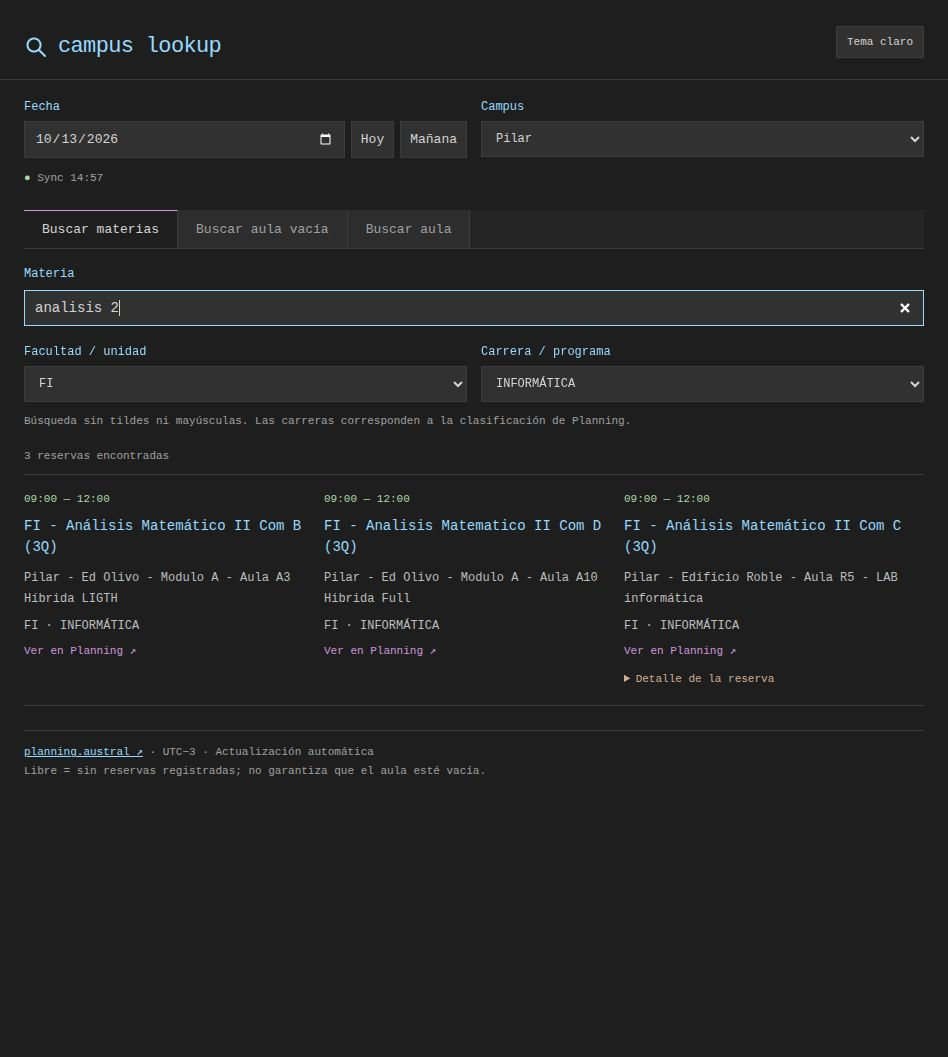
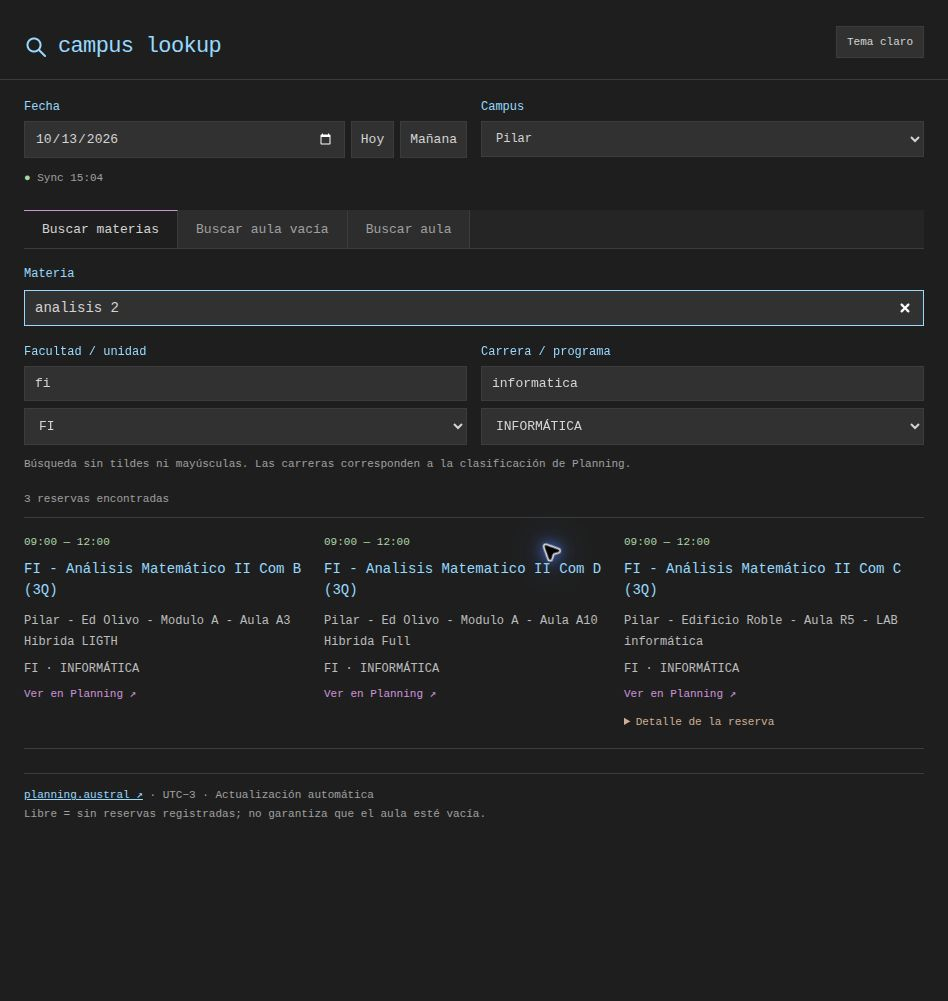
Simplify setup and README, add local hostname and searchable academic filters

diff --git a/index.html b/index.html
@@ -74,6 +74,8 @@ input::placeholder { color: #949494; }
 .card { background: transparent; border-bottom: 1px solid var(--line); padding: 16px 18px 16px 0; overflow-wrap: anywhere; }
 .card h3 { margin: 10px 0; font-size: 14px; font-weight: 400; color: var(--blue); line-height: 1.5; }
 .subject-filters { margin: 10px 0; }
+.academic-filter { flex: 1; min-width: 180px; }
+.academic-filter input { margin: 7px 0; }
 .academic-label { color: var(--purple); font-size: 11px; line-height: 1.6; margin: 6px 0; }
 .schedule-booking { border-top: 1px solid var(--line); padding-top: 12px; margin-top: 12px; }
 .schedule-booking h4 { font-size: 12px; font-weight: 400; line-height: 1.6; margin: 6px 0; color: var(--text); }
@@ -96,7 +98,7 @@ input:focus, select:focus, button:focus-visible { outline: 1px solid var(--blue)
 <header><h1><svg class="logo" viewBox="0 0 24 24" fill="none" stroke="currentColor" stroke-width="2" stroke-linecap="round" aria-hidden="true"><circle cx="10" cy="10" r="6.5"/><path d="m15 15 6 6"/></svg>campus lookup</h1><button id="theme" type="button">Tema claro</button></header><main>
 <section class="panel"><div class="row"><div class="date-field"><label for="date">Fecha</label><div class="date-controls"><input id="date" type="date" required><button id="today" type="button">Hoy</button><button id="tomorrow" type="button">Mañana</button></div></div><label>Campus<select id="campus"><option>Pilar</option><option value="Bs. As.">Buenos Aires</option><option>Rosario</option><option value="">Todos</option></select></label></div><div id="status" role="status" aria-live="polite">Conectando con Planning…</div></section>
 <div class="tabs" role="tablist" aria-label="Tipo de búsqueda"><button id="subjects" role="tab" aria-controls="subjectForm" aria-selected="true">Buscar materias</button><button id="rooms" role="tab" aria-controls="roomForm" aria-selected="false" tabindex="-1">Buscar aula vacía</button><button id="roomSchedule" role="tab" aria-controls="scheduleForm" aria-selected="false" tabindex="-1">Buscar aula</button></div>
-<section class="panel"><div id="subjectForm" role="tabpanel" aria-labelledby="subjects"><label for="q">Materia</label><input id="q" type="search" placeholder="analisis 2, álgebra, física…" autocomplete="off"><div class="row subject-filters"><label for="faculty">Facultad / unidad<select id="faculty"><option value="">Todas</option></select></label><label for="career">Carrera / programa<select id="career"><option value="">Todas</option></select></label></div><div class="hint">Búsqueda sin tildes ni mayúsculas. Las carreras corresponden a la clasificación de Planning.</div></div><div id="roomForm" role="tabpanel" aria-labelledby="rooms" hidden><div class="row"><div class="time-field"><label for="from">Desde</label><div class="time-controls"><input id="from" type="time" value="12:00" required><button id="now" type="button">Ahora</button></div></div><div class="time-field"><label for="to">Hasta</label><div class="time-controls"><input id="to" type="time" value="14:00" required></div><div class="duration"><label for="hours">+</label><input id="hours" type="text" inputmode="decimal" value="2" aria-label="Duración en horas" autocomplete="off"><span>horas desde el inicio</span></div></div><label>Edificio<select id="building"><option value="default">Olivo A/B · Roble · Ceibo</option><option value="all">Todas las aulas</option></select></label></div><p id="intervalHint" class="hint" role="status"></p></div></section>
+<section class="panel"><div id="subjectForm" role="tabpanel" aria-labelledby="subjects"><label for="q">Materia</label><input id="q" type="search" placeholder="analisis 2, álgebra, física…" autocomplete="off"><div class="row subject-filters"><div class="academic-filter"><label for="faculty">Facultad / unidad</label><input id="facultySearch" type="search" aria-label="Buscar facultad o unidad" placeholder="Buscar facultad…" autocomplete="off"><select id="faculty"><option value="">Todas</option></select></div><div class="academic-filter"><label for="career">Carrera / programa</label><input id="careerSearch" type="search" aria-label="Buscar carrera o programa" placeholder="Buscar carrera…" autocomplete="off"><select id="career"><option value="">Todas</option></select></div></div><div class="hint">Búsqueda sin tildes ni mayúsculas. Las carreras corresponden a la clasificación de Planning.</div></div><div id="roomForm" role="tabpanel" aria-labelledby="rooms" hidden><div class="row"><div class="time-field"><label for="from">Desde</label><div class="time-controls"><input id="from" type="time" value="12:00" required><button id="now" type="button">Ahora</button></div></div><div class="time-field"><label for="to">Hasta</label><div class="time-controls"><input id="to" type="time" value="14:00" required></div><div class="duration"><label for="hours">+</label><input id="hours" type="text" inputmode="decimal" value="2" aria-label="Duración en horas" autocomplete="off"><span>horas desde el inicio</span></div></div><label>Edificio<select id="building"><option value="default">Olivo A/B · Roble · Ceibo</option><option value="all">Todas las aulas</option></select></label></div><p id="intervalHint" class="hint" role="status"></p></div></section>
 <section id="scheduleForm" class="panel" role="tabpanel" aria-labelledby="roomSchedule" hidden><label for="roomQuery">Aula</label><input id="roomQuery" type="search" placeholder="R2, C8.1, B7, Ceibo…" autocomplete="off"><p class="hint">Reservas del aula para la fecha seleccionada.</p></section>
 <h2 id="count">Cargando…</h2><div id="results" aria-live="polite"></div><footer><a href="https://planning-campus.austral.edu.ar:44443/" target="_blank" rel="noopener">planning.austral ↗</a> · UTC−3 · Actualización automática<br>Libre = sin reservas registradas; no garantiza que el aula esté vacía.</footer></main>
 <script>
@@ -281,7 +283,10 @@ function resetOptions(select, values, emptyLabel, label = value => value) {
   const previous = select.value;
   select.replaceChildren();
   const all = document.createElement('option'); all.value = ''; all.textContent = emptyLabel; select.append(all);
+  const query = norm($(select.id + 'Search')?.value || '');
   for (const value of values) {
+    const actual = value || '__unclassified__';
+    if (query && actual !== previous && !norm(value ? label(value) : 'Sin clasificación').includes(query)) continue;
     const option = document.createElement('option'); option.value = value || '__unclassified__'; option.textContent = value ? label(value) : 'Sin clasificación'; select.append(option);
   }
   select.value = [...select.children].some(o => o.value === previous) ? previous : '';
@@ -500,6 +505,7 @@ $('to').addEventListener('input', () => {
 });
 $('faculty').addEventListener('change', () => { $('career').value = ''; updateAcademicFilters(); render(); });
 $('career').addEventListener('change', render);
+for (const id of ['facultySearch', 'careerSearch']) $(id).addEventListener('input', updateAcademicFilters);
 for (const id of ['q', 'roomQuery', 'building']) $(id).addEventListener('input', render);
 const tabs = ['subjects', 'rooms', 'roomSchedule'];
 function selectTab(tab) {

diff --git a/install_bookmark.py b/install_bookmark.py
@@ -78,7 +78,7 @@ WantedBy=sockets.target
         run('is-active', '--quiet', f'{NAME}.socket')
     except subprocess.CalledProcessError:
         parser.exit(1, f'No se pudo activar el favorito; quizás el puerto {args.port} está ocupado. Probá --port con otro número.\n')
-    print(f'Listo. Guardá este enlace en la barra de favoritos: http://127.0.0.1:{args.port}/')
+    print(f'Listo. Guardá este enlace en la barra de favoritos: http://campus-lookup.localhost:{args.port}/')
     print('Al abrirlo inicia Python en esa misma pestaña. Al cerrar la última pestaña, Python termina.')
     print('Si movés esta carpeta, volvé a ejecutar este setup.')
 

diff --git a/server.py b/server.py
@@ -69,7 +69,7 @@ class Handler(BaseHTTPRequestHandler):
 
     def do_GET(self):
         url = urlsplit(self.path)
-        if self.headers.get('Host') != f'127.0.0.1:{self.server.server_port}':
+        if self.headers.get('Host') not in {f'{host}:{self.server.server_port}' for host in ('127.0.0.1', 'localhost', 'campus-lookup.localhost')}:
             self.reply(403, b'Host no permitido', 'text/plain')
             return
         if url.path in ('/', '/index.html'):

diff --git a/setup.py b/setup.py
@@ -1,0 +1,11 @@
+#!/usr/bin/env python3
+"""Instala campus lookup y abre la app (Linux con systemd, sin sudo)."""
+import subprocess
+import sys
+from pathlib import Path
+import webbrowser
+
+if __name__ == '__main__':
+    root = Path(__file__).resolve().parent
+    subprocess.run([sys.executable, str(root / 'install_bookmark.py')], check=True)
+    webbrowser.open('http://campus-lookup.localhost:18787/')

diff --git a/README.md b/README.md
@@ -1,104 +1,47 @@
 # campus lookup
 
-Buscador de materias y aulas libres de Austral. Sin login ni paquetes externos. Necesitás **Python 3.10+** e internet.
+Buscá materias, horarios por aula y aulas vacías de Austral. Sin login ni dependencias externas. Requiere **Python 3.10+**, internet y un navegador moderno.
 
-## Abrir
+## Instalación habitual · Linux con systemd
+
+Cloná el repo donde quieras y ejecutá el setup **sin sudo**:
+
+```bash
+git clone https://github.com/Vontk/planning-austral.git
+cd planning-austral
+python3 setup.py
+```
+
+El setup instala el inicio automático y abre la app. Después entrá a **http://campus-lookup.localhost:18787/** desde tu navegador cuando quieras. Guardalo con **Ctrl+D** en la barra de favoritos como **campus lookup**.
+
+Al abrir el enlace, Python arranca automáticamente. Al cerrar la última pestaña, termina en unos 6–9 segundos. Funciona al volver a iniciar sesión; la app solo es accesible desde tu computadora.
+
+Conservá la carpeta del proyecto. Si la movés, ejecutá `python3 setup.py` de nuevo desde su nueva ubicación. Para actualizar: `git pull` y cerrá/reabrí las pestañas de la app.
+
+Si tu navegador no reconoce el nombre local, usá **http://127.0.0.1:18787/**. Si el puerto está ocupado, ejecutá `python3 install_bookmark.py --port 18788` y abrí el enlace que indique.
+
+## Windows, macOS o Linux sin systemd
+
+Descargá o cloná el repo y, desde su carpeta, ejecutá:
 
 ```bash
 python3 server.py
 ```
 
-Abre tu navegador predeterminado en **http://127.0.0.1:18787/**. Si la integración de favoritos ya está activa, reutiliza ese servidor. Al cerrar la última pestaña de la app, Python termina unos segundos después. Recargar no lo cierra. También podés terminarlo con `Ctrl+C`.
+En Windows podés usar `py -3 server.py`. Se abre el navegador predeterminado y Python termina al cerrar la última pestaña. En estos sistemas hay que ejecutar el comando cada vez que quieras abrir la app; el setup automático requiere Linux con systemd.
 
-## Abrir desde la barra de favoritos
+## Uso
 
-En **Linux con systemd** (como esta computadora), configurá esto una sola vez, desde la carpeta del proyecto y **sin sudo**:
+- Elegí fecha y campus. Los horarios se actualizan automáticamente.
+- **Buscar materias**: `analisis 2` encuentra `Análisis Matemático II`. Podés buscar y seleccionar una **Facultad / unidad** y **Carrera / programa**; las opciones dependen de la fecha y del campus. Escribir en el buscador del filtro reduce las opciones; elegí una para aplicarla. Las clasificaciones son las que registra Planning.
+- **Buscar aula**: escribí `R2`, `C8.1` o un edificio para ver sus reservas del día.
+- **Buscar aula vacía**: elegí Desde / Hasta, o **Ahora** y **+ horas** (acepta `1,5`). Puede abarcar hasta 24 horas, incluso cruzar medianoche.
+- **Tema claro / oscuro** cambia y recuerda la apariencia.
 
-```bash
-python3 install_bookmark.py
-```
+Los horarios usan la hora de Buenos Aires. Aula libre significa sin reservas registradas; puede estar ocupada sin figurar en Planning.
 
-1. Abrí **http://127.0.0.1:18787/** en tu navegador.
-2. Presioná **Ctrl+D**, poné el nombre **campus lookup** y elegí **Barra de favoritos**.
-3. Cerrá la pestaña. La próxima vez, al pulsar ese favorito, Python arranca automáticamente y la app abre en **esa misma pestaña**.
-
-**En esta computadora ya está configurado el inicio automático. Solo falta guardar el favorito.**
-
-No guardes URLs temporales como `http://127.0.0.1:40875/`: pertenecen a una ejecución anterior y dejan de responder al cerrar Python. El puerto estable de este setup es **18787**.
-
-Python termina al cerrar la última pestaña. Linux conserva el punto de entrada local para poder volver a iniciarlo: no queda un proceso de Python ejecutándose entre usos. Funciona después de volver a iniciar sesión. No expone la app a otras computadoras.
-
-Si movés la carpeta, volvé a ejecutar el setup. Si el puerto está ocupado, usá `python3 install_bookmark.py --port 18788` y guardá la dirección que indique. Para desinstalar esta integración:
+Para quitar el inicio automático:
 
 ```bash
 python3 install_bookmark.py --uninstall
-```
-
-Un HTML o favorito común no puede ejecutar un archivo Python por su ruta. La integración usa [activación por socket de systemd](https://github.com/systemd/systemd/blob/main/man/systemd.socket.xml). En Windows, macOS o Linux sin systemd, usá `python3 server.py`; el inicio desde favoritos de este proyecto está disponible para Linux con systemd.
-
-## Usar
-
-- Elegí fecha o **Hoy / Mañana**, y campus. Los datos se cargan automáticamente.
-- **Buscar materias**: `analisis 2` encuentra `Análisis Matemático II`. Ignora tildes y mayúsculas, reconoce romanos I–X y tolera pequeños errores. Distingue el número de la materia del de la comisión. Podés combinar la búsqueda con **Facultad / unidad** y **Carrera / programa**; al elegir una facultad, el selector de carreras muestra sus clasificaciones del día.
-- **Buscar aula**: escribí `R2`, `C8.1`, `B7` o un edificio. Muestra las reservas de cada aula para la fecha seleccionada, ordenadas por hora, y también aulas sin reservas. Incluye laboratorios y talleres que figuran como aulas numeradas. Cada reserva muestra su unidad y carrera/programa. **Detalle** solo aparece si hay contenido; se eliminan las etiquetas vacías y el título repetido.
-- **Buscar aula vacía**: elegí **Desde** o pulsá **Ahora**. Ahora selecciona la fecha y hora actuales de Buenos Aires.
-- En **Hasta**, podés editar la hora o poner **+ N horas** desde el inicio: acepta `1,5`, `1.5` y `0.5`. La duración mínima es un minuto y la máxima 24 horas; se redondea al minuto más cercano.
-- Si termina al día siguiente, lo indica y consulta las reservas de ambos días. Una hora final anterior al inicio se interpreta como el día siguiente. Para un intervalo de exactamente 24 horas, escribí `24` en la duración.
-- En Pilar se busca por defecto en Olivo A/B, Roble y Ceibo, con códigos A/B/C/R seguidos de un número (también decimales como B11.1). Un aula numerada no se excluye por llamarse Lab, Biolab o Taller. SUM queda fuera de ese alcance; **Todas las aulas** amplía el inventario. En otros campus se usan sus propias aulas. Se excluyen oficinas y espacios virtuales o exteriores.
-- **Tema claro / Tema oscuro** cambia la paleta y recuerda tu elección cuando el navegador permite guardar preferencias. La lupa es también el icono de la pestaña.
-
-Libre significa **sin reservas registradas**; no garantiza que el aula esté físicamente vacía. Los horarios son de Buenos Aires (UTC−3).
-
-La app sincroniza cada cinco minutos mientras está visible, al volver después de cinco minutos y al recuperar internet. Reintenta si falla una carga y avisa cuando falta el inventario de un edificio. Las respuestas de búsquedas anteriores no reemplazan la selección actual.
-
-## Archivos
-
-- `server.py`: puente local, navegador y cierre automático.
-- `index.html`: interfaz, búsqueda, temas y horarios.
-- `logo.svg`: lupa en el color de acento.
-- `install_bookmark.py`: instala o quita el inicio desde favoritos en Linux.
-- `tests/`: pruebas de casos límite.
-
-Planning bloquea la lectura desde un HTML externo por CORS. El puente solo lee `day.php` y `report.php` de https://planning-campus.austral.edu.ar:44443/. No inicia sesión ni cambia reservas. El inventario se obtiene de las grillas públicas, incluyendo aulas sin reservas.
-
-## Comprobaciones
-
-```bash
-node tests/app.test.cjs
-python3 -m unittest discover -s tests -p 'test_*.py'
-```
-
-Node solo es necesario para ejecutar las pruebas del buscador, no para usar la app. Las pruebas cubren comisiones, fechas UTC−3, cambio de año, decimales, medianoche, límites de reservas, CSV, cambio rápido de filtros y tema claro sin almacenamiento. Pasaron 17 pruebas de JavaScript y 9 de Python. También se comprobó el inicio, cierre y reinicio desde favoritos con systemd y la interfaz con datos reales en Brave.
-
-Capturas: [tema oscuro](docs/dark.jpg) · [tema claro](docs/light.jpg) · [conteo corregido](docs/availability-fixed.jpg) · [reservas por aula](docs/room-schedule.jpg) · [filtros académicos](docs/academic-filters.jpg).
-
-## Compartir
-
-El [repositorio es privado](https://github.com/Vontk/planning-austral). Para acceder hay que ser colaborador invitado; el enlace por sí solo no concede acceso.
-
-## Corrección del conteo
-
-El filtro anterior excluía R1, R4, R5, R7, C5, C6 y C7 por contener “Lab”, “Biolab” o “Taller”. Se corrigió para usar el código del aula. En la auditoría del 13/10/2026, de 14:23 a 16:23, se verificaron seis aulas sin reservas: R4, R7, C2, C5, C6 y C7. El inventario habitual pasó de 41 a 47 (48 del original menos SUM). Estos son resultados históricos de esa consulta, no disponibilidad garantizada para otro momento.
-
-## Campos de Planning
-
-Los filtros usan los datos del reporte, no inferencias por el título:
-
-- **Unidad**: código de facultad o unidad, por ejemplo FI, FCB o FCE BA.
-- **Ceco**: clasificación que suele identificar una carrera o programa. En el CSV actual su encabezado está vacío, entre Unidad y Orden; se verificó contra los detalles públicos de la reserva. Puede contener categorías administrativas y no garantiza que toda reserva esté correctamente clasificada.
-- **Orden**: actividad/programa adicional; muchas clases tienen el valor genérico “Reuniones Varias”, por eso no se usa como carrera.
-
-La descripción puede tener Responsable o Director-Profesor aunque Detalle esté vacío. Se conserva esa información cuando está completa.
-
-## Qué queda funcionando cuando cerrás la página
-
-Al entrar a `http://127.0.0.1:18787/`, systemd inicia `server.py` si no está activo. Python sirve la interfaz y lee Planning mientras haya alguna pestaña abierta. Después de cerrar la última, detecta la desconexión y termina tras unos 6–9 segundos. Recargar no lo termina.
-
-**No queda Python ejecutándose permanentemente.** Solo queda el socket local gestionado por systemd, listo para iniciar la app la próxima vez. Si dejás una pestaña abierta, incluso en segundo plano, Python sí sigue activo. Si se inicia sin llegar a abrir una página, termina después de 90 segundos.
-
-Para comprobarlo desde una terminal (estas consultas no inician Python):
-
-```bash
-systemctl --user is-active campus-lookup.service  # Python: active o inactive
-systemctl --user is-active campus-lookup.socket   # Punto de entrada: active
 ```
